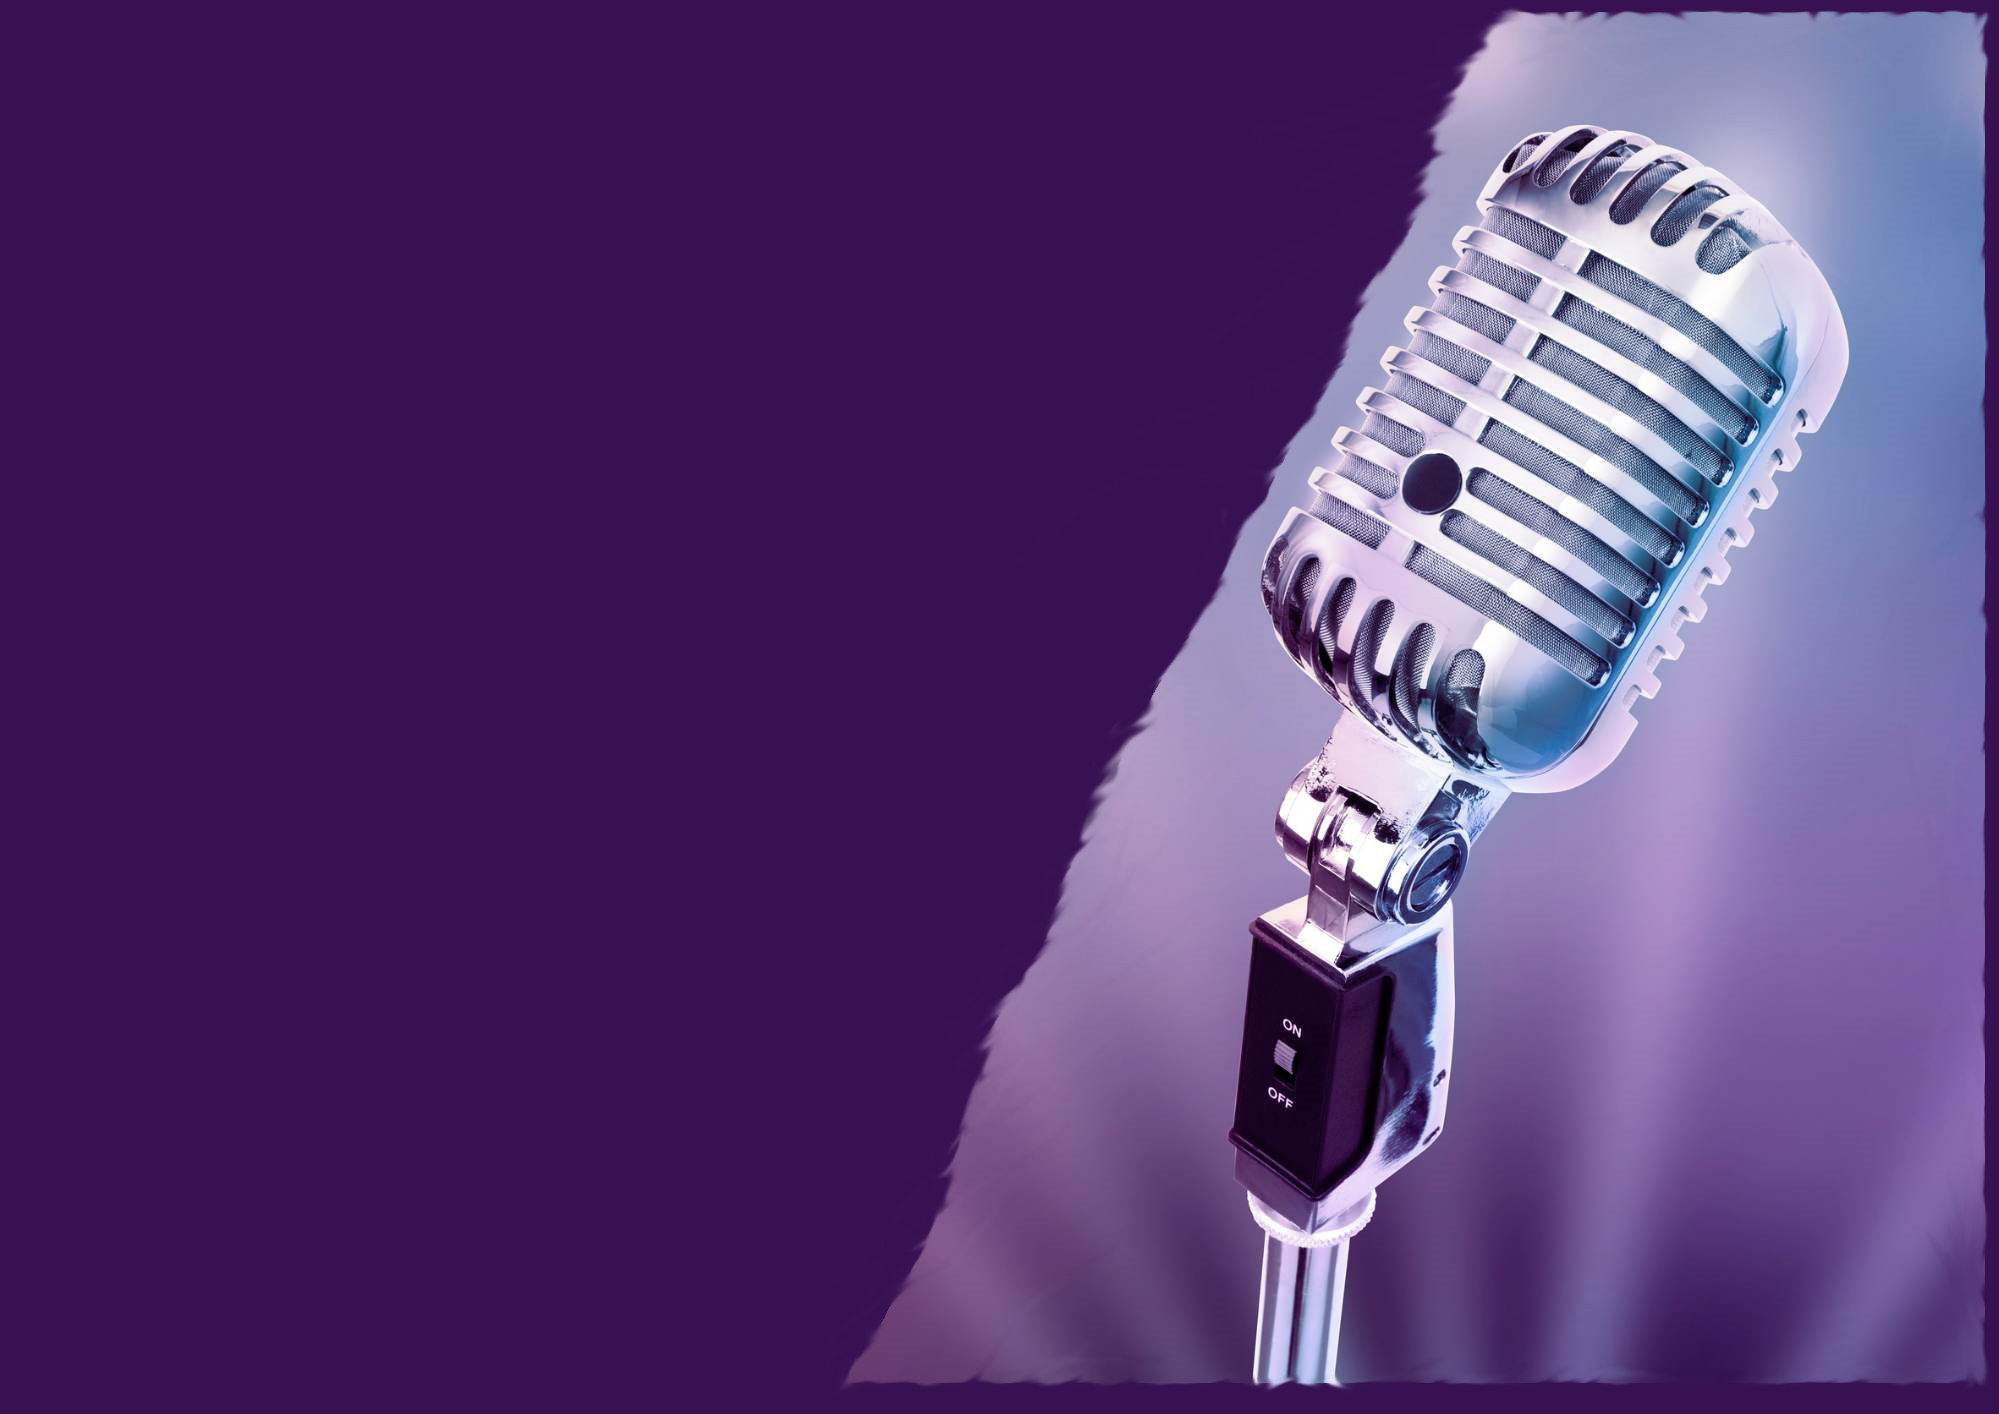
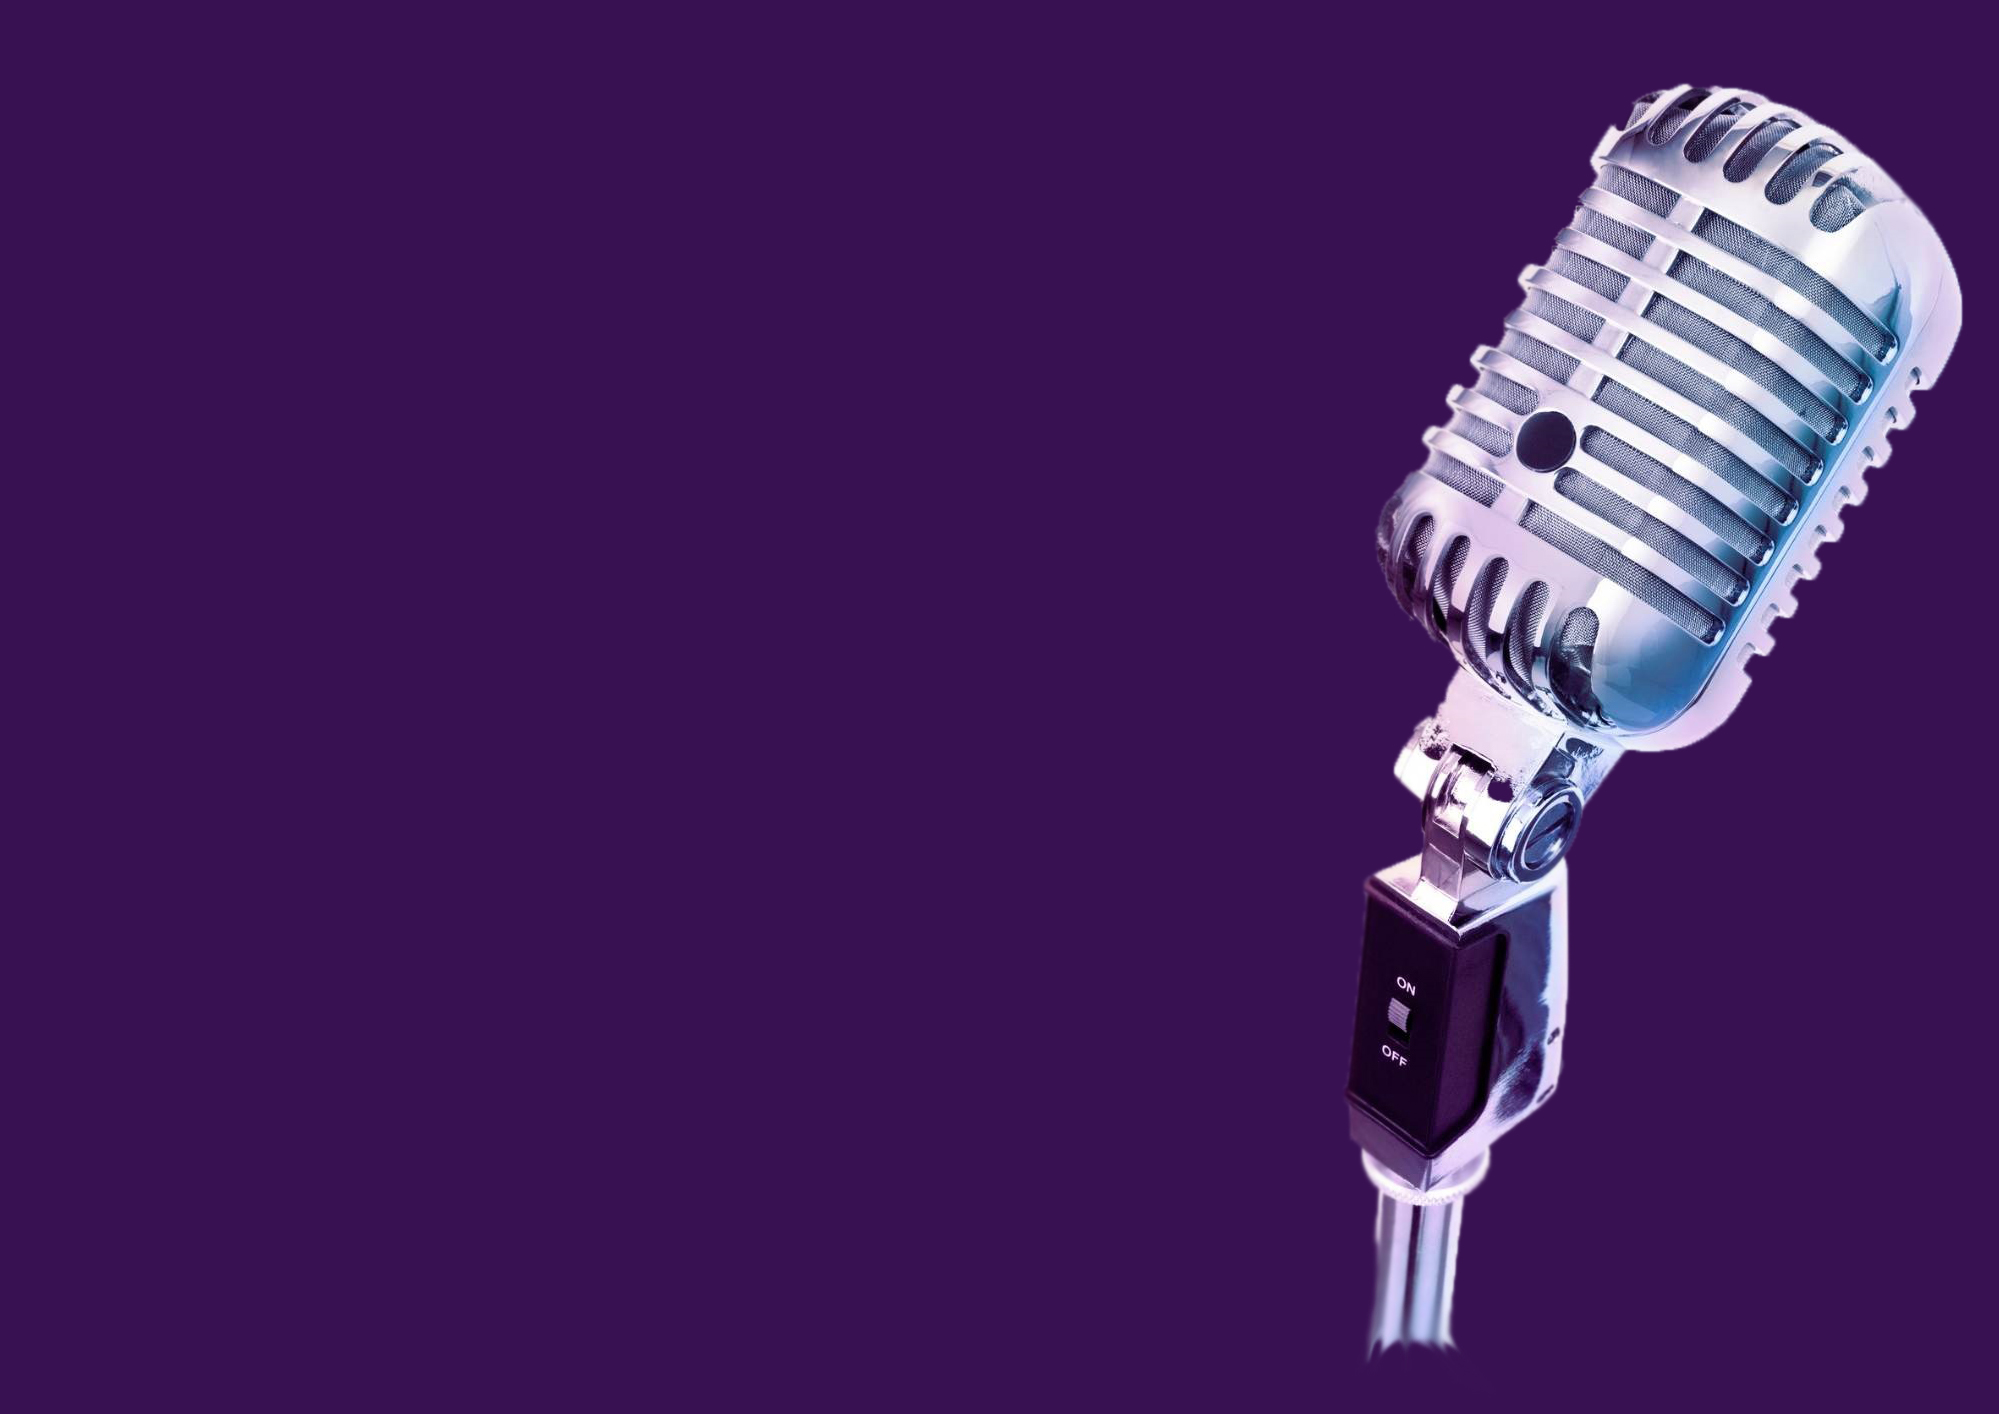
background update

diff --git a/src/App.css b/src/App.css
@@ -17,7 +17,9 @@
   }
 }
 
-
+.main-container {
+  
+}
 
 @keyframes App-logo-spin {
   from {
@@ -70,10 +72,11 @@
 .area{
     background-image: url('background.jpg');
     background-color: #381152;
-    background-size: 135%;  
+    background-size: 130%;  
     background-repeat: no-repeat; 
     height: 100vh;
-    background-position: left;
+    min-height: 500px;
+    background-position: center;
     
    
 }

diff --git a/src/App.js b/src/App.js
@@ -3,7 +3,7 @@ import './App.css';
 
 function App() {
   return (
-    <>
+    <div className="main-container">
     <div className="context">
 
         <img src={logo} className="App-logo" alt="logo" />
@@ -32,7 +32,7 @@ function App() {
     <footer>
     <p>Copyright @ 2023</p>
     </footer>
-    </>
+    </div>
   );
 }
 
